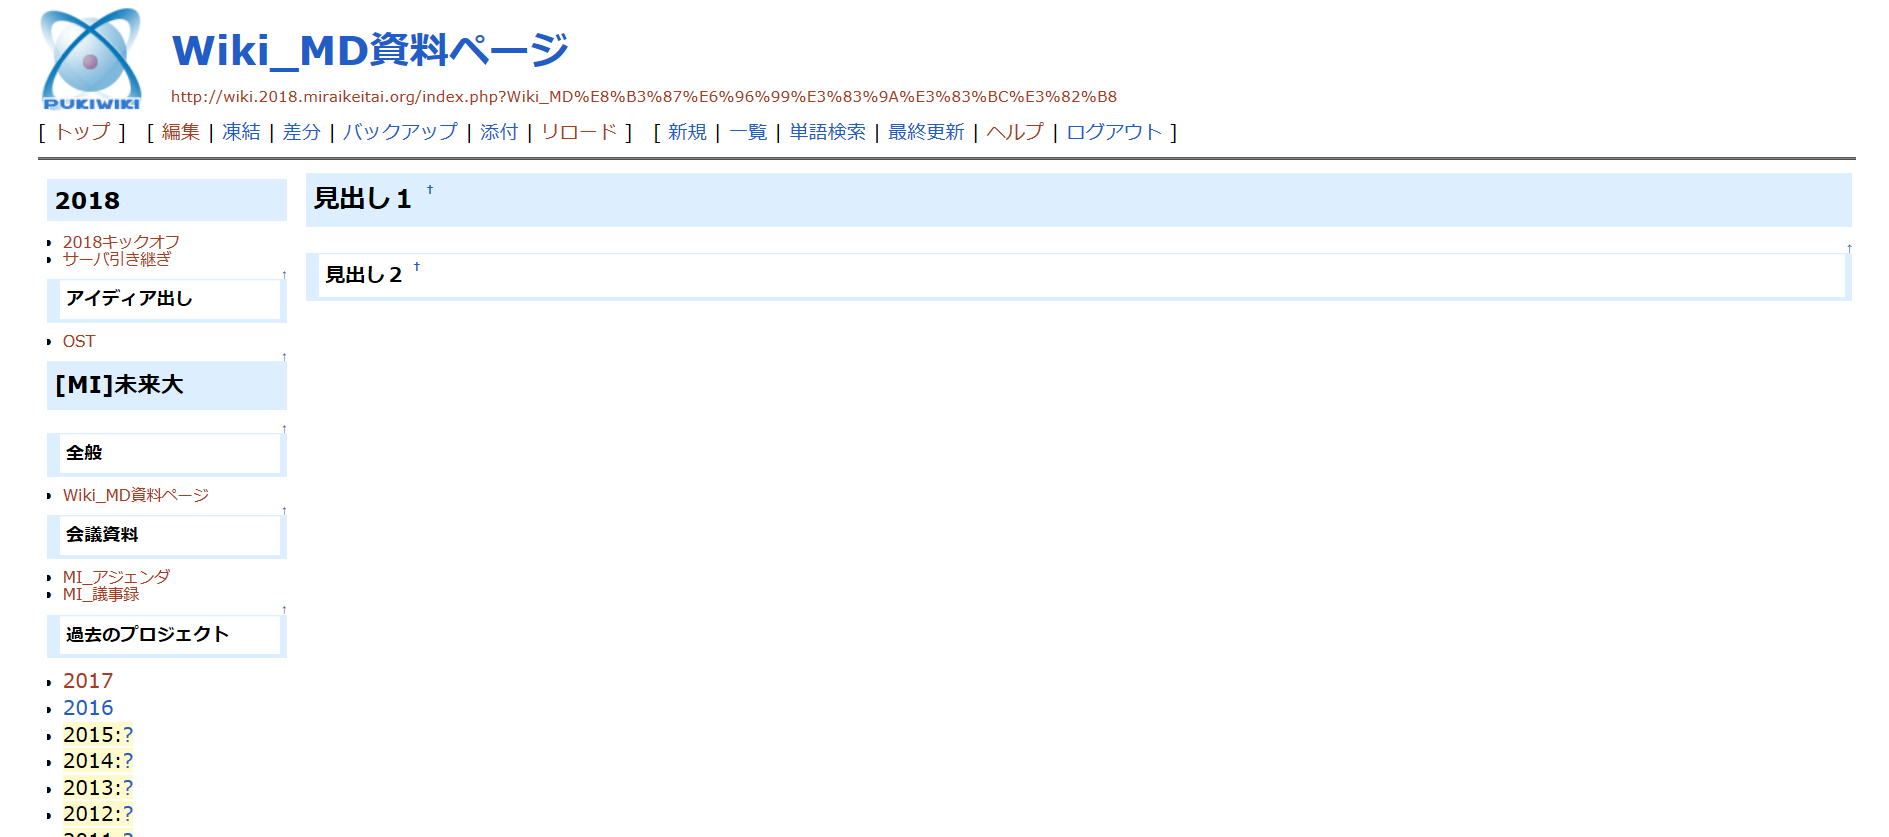
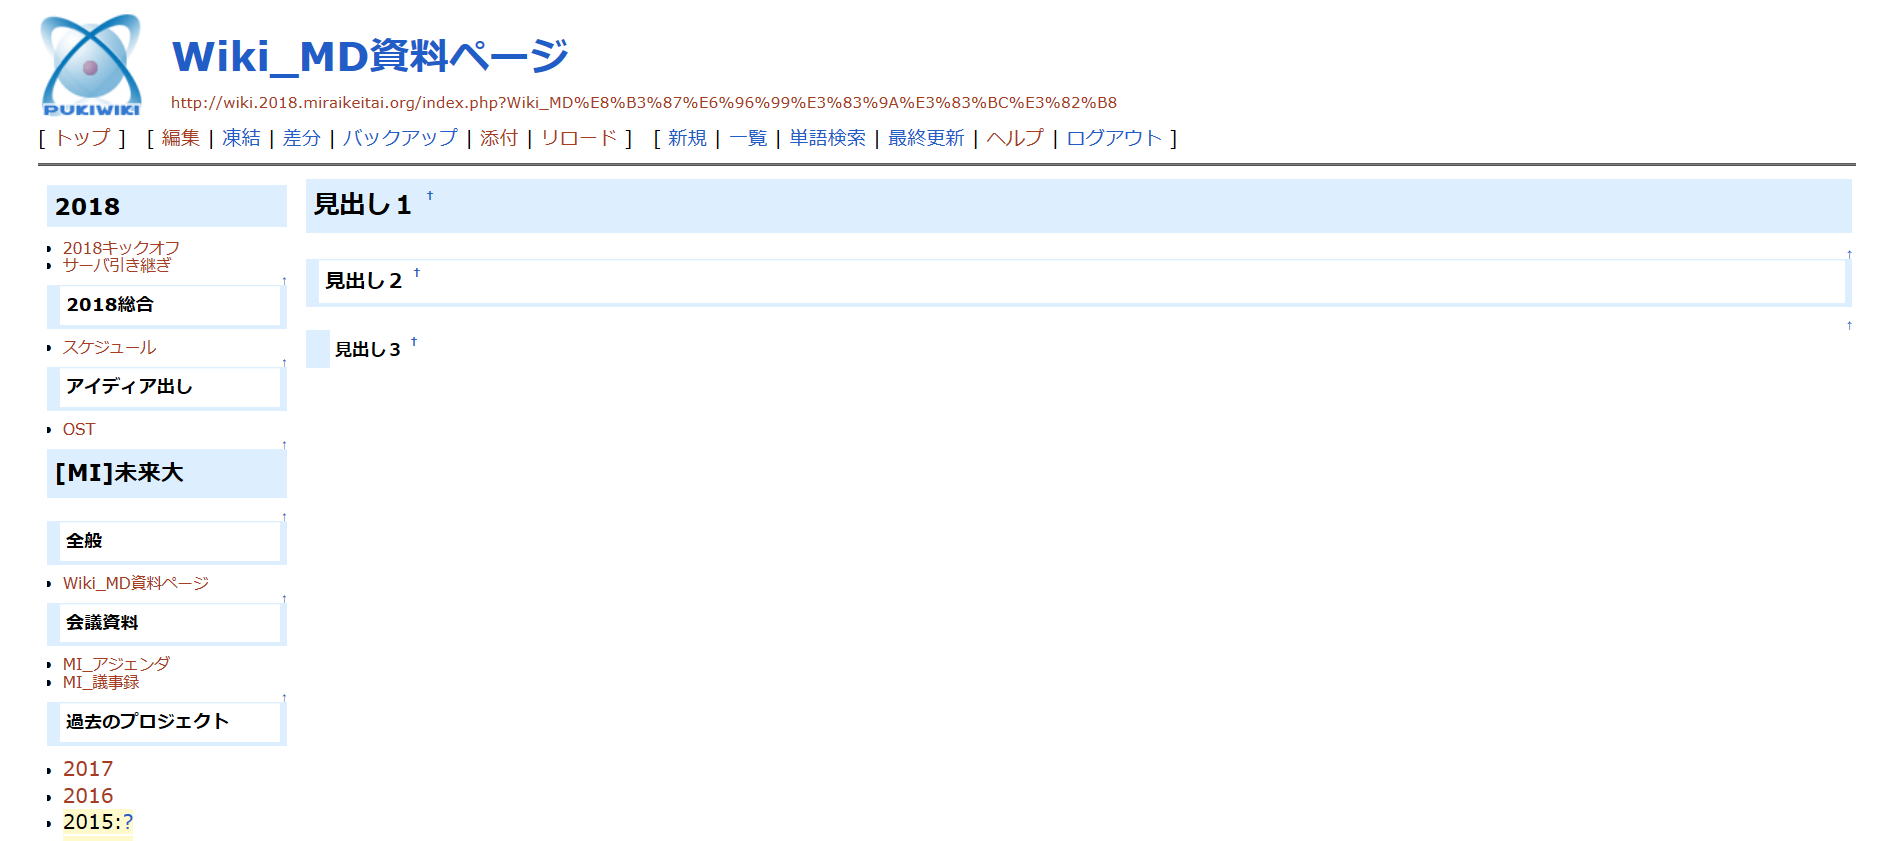
change img2

Changed region(s): [[0.0, 0.0, 0.9883, 1.0]]

diff --git a/PukiWiki_Turorial2018.md b/PukiWiki_Turorial2018.md
@@ -4,6 +4,7 @@
 * ページの編集をするときは、編集したいページの左上の「編集」をクリックする。
 ![imag](img1.png)
 #### 1-1.見出しの書き方
-* 「*」で青い帯（見出し１）を作成できる  
-* 「**」で白い帯（見出し２）を作成できる
+* 「*」で青い帯（見出し１）ができる  
+* 「**」で白い帯（見出し２）ができる
+* 「***で」白い見出し（見出し３）ができる
 ![img](img2.png)
